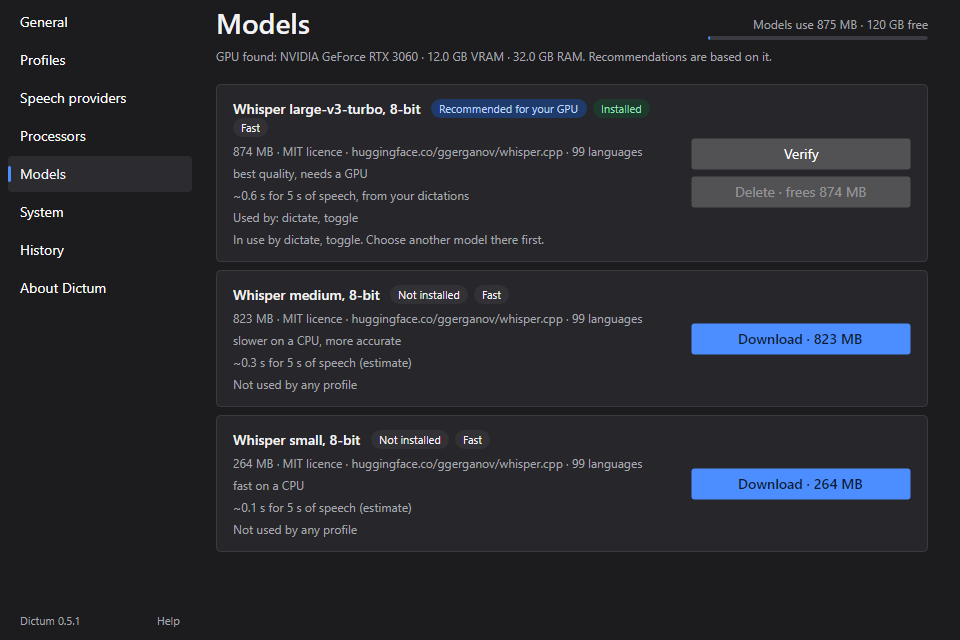
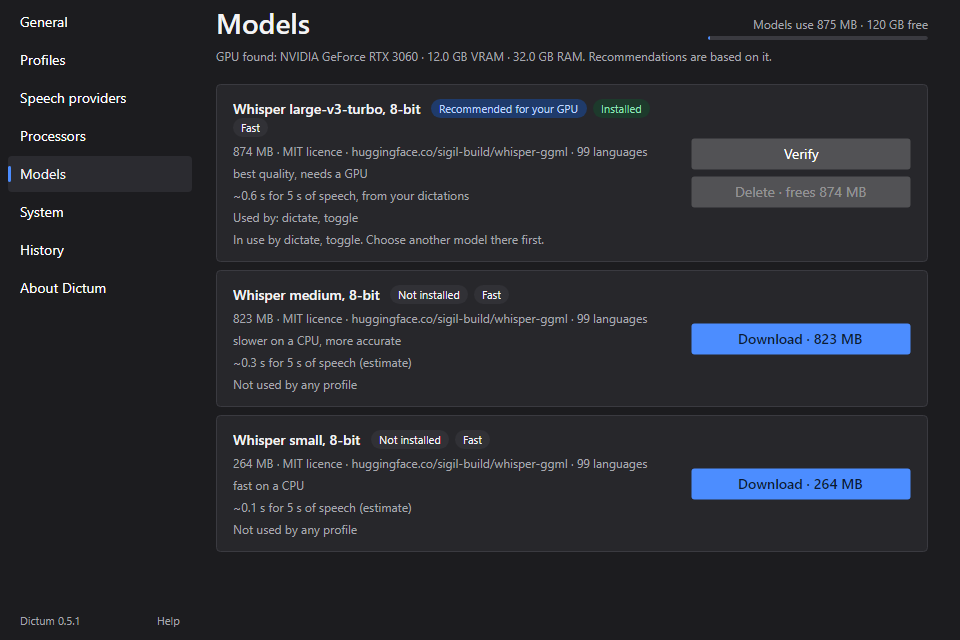
chore(catalog): every model downloads from the sigil-build mirrors on Hugging Face (whisper-ggml, whisper-vad), byte-for-byte copies of the pinned upstream files with the same SHA-256 and sizes; the licence links point at the mirrors' LICENSE, and the Models and wizard screenshots show the new sourc

Changed region(s): [[0.4688, 0.4688, 0.6562, 0.5312], [0.4375, 0.7188, 0.6875, 0.75], [0.4375, 0.2188, 0.6875, 0.25]]

diff --git a/tests/Dictum.App.Tests/Settings/ModelTextTests.cs b/tests/Dictum.App.Tests/Settings/ModelTextTests.cs
@@ -16,8 +16,8 @@ public sealed class ModelTextTests
     {
         Assert.Equal("Whisper large-v3-turbo, 8-bit", ModelText.Name(Turbo));
         Assert.Equal("best quality, needs a GPU", ModelText.Note(Turbo));
-        Assert.Equal("huggingface.co/ggerganov/whisper.cpp", ModelText.Source(Turbo));
-        Assert.Equal("874 MB · MIT licence · huggingface.co/ggerganov/whisper.cpp · 99 languages", ModelText.Meta(Turbo));
+        Assert.Equal("huggingface.co/sigil-build/whisper-ggml", ModelText.Source(Turbo));
+        Assert.Equal("874 MB · MIT licence · huggingface.co/sigil-build/whisper-ggml · 99 languages", ModelText.Meta(Turbo));
         Assert.Equal("English", ModelText.Languages(Catalog.BuiltIn.Get(Catalog.TinyEnglishModel)));
     }
 
